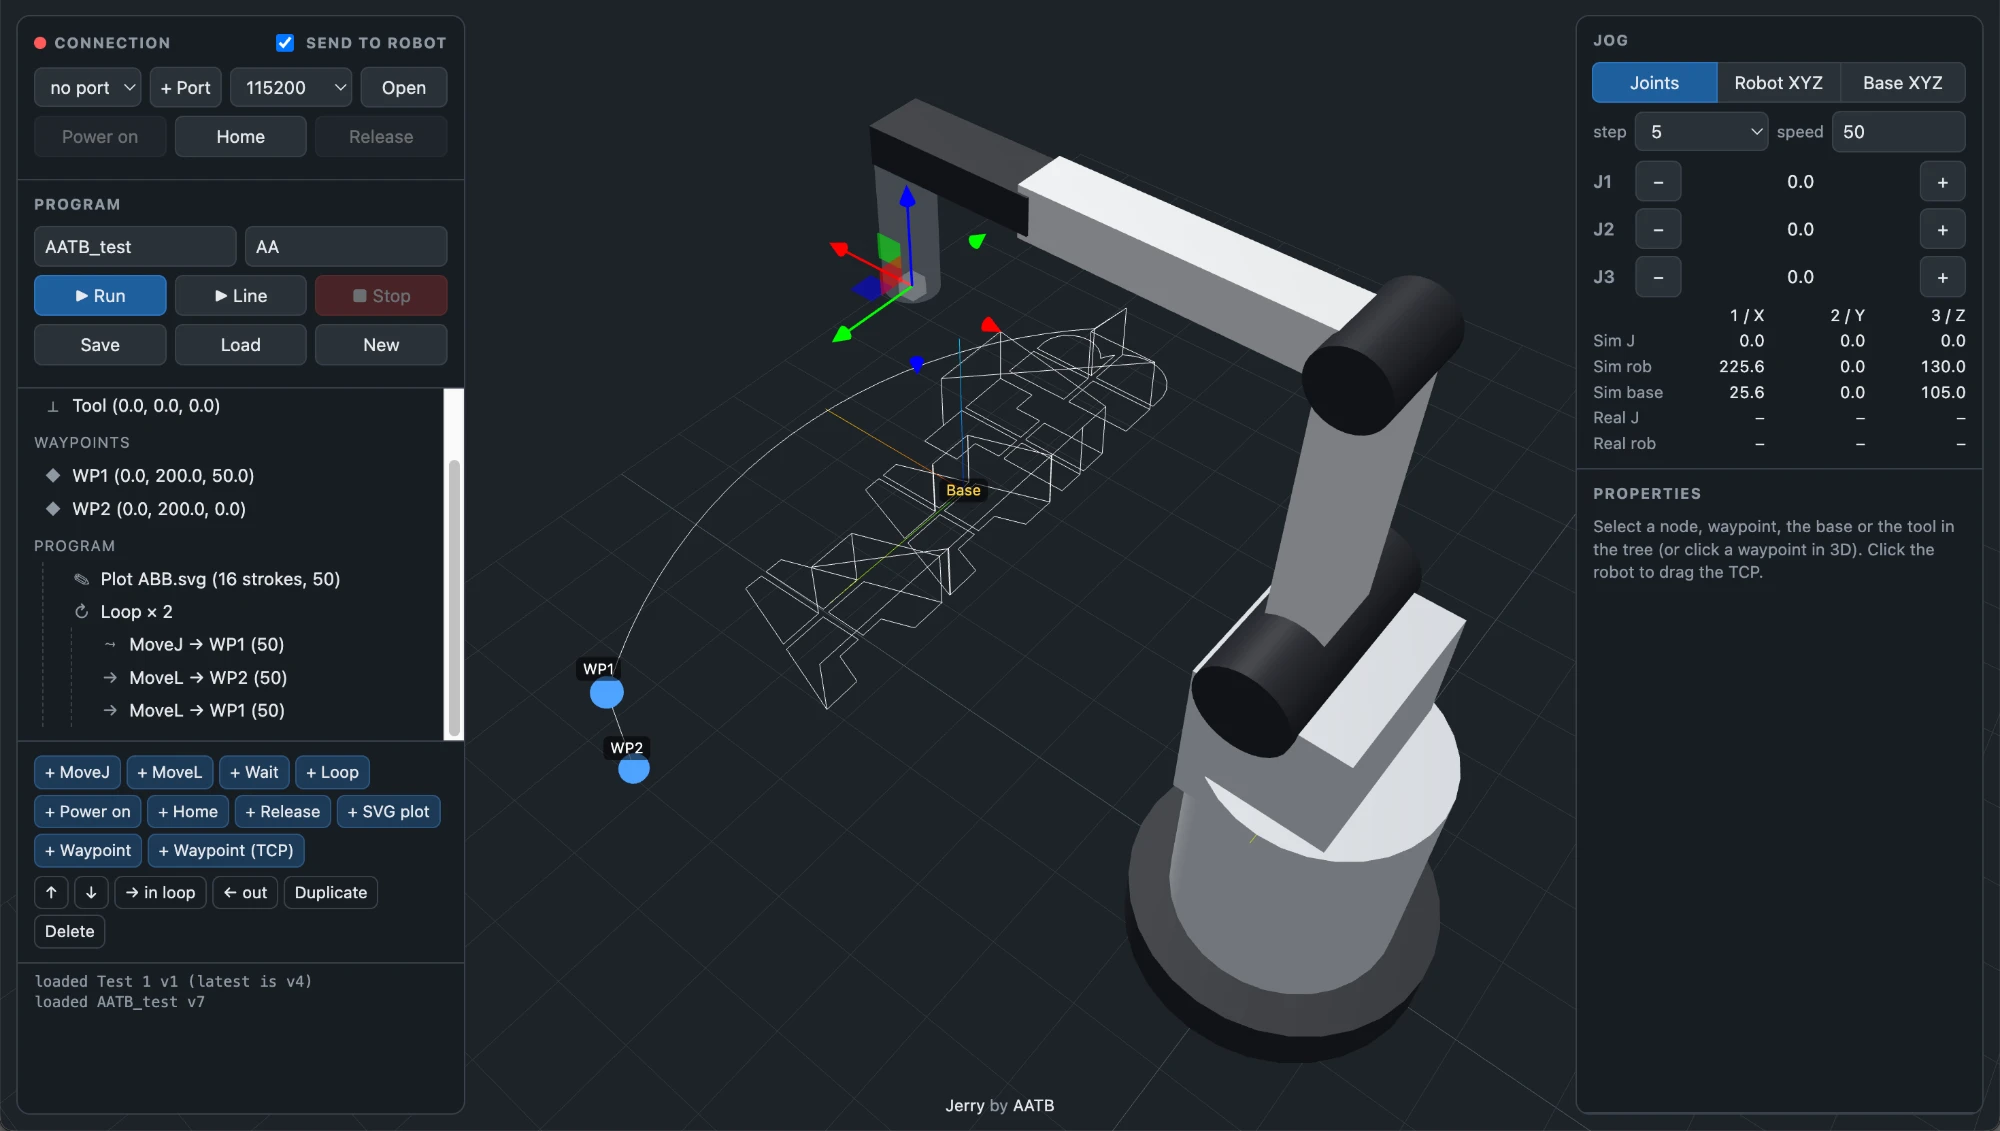
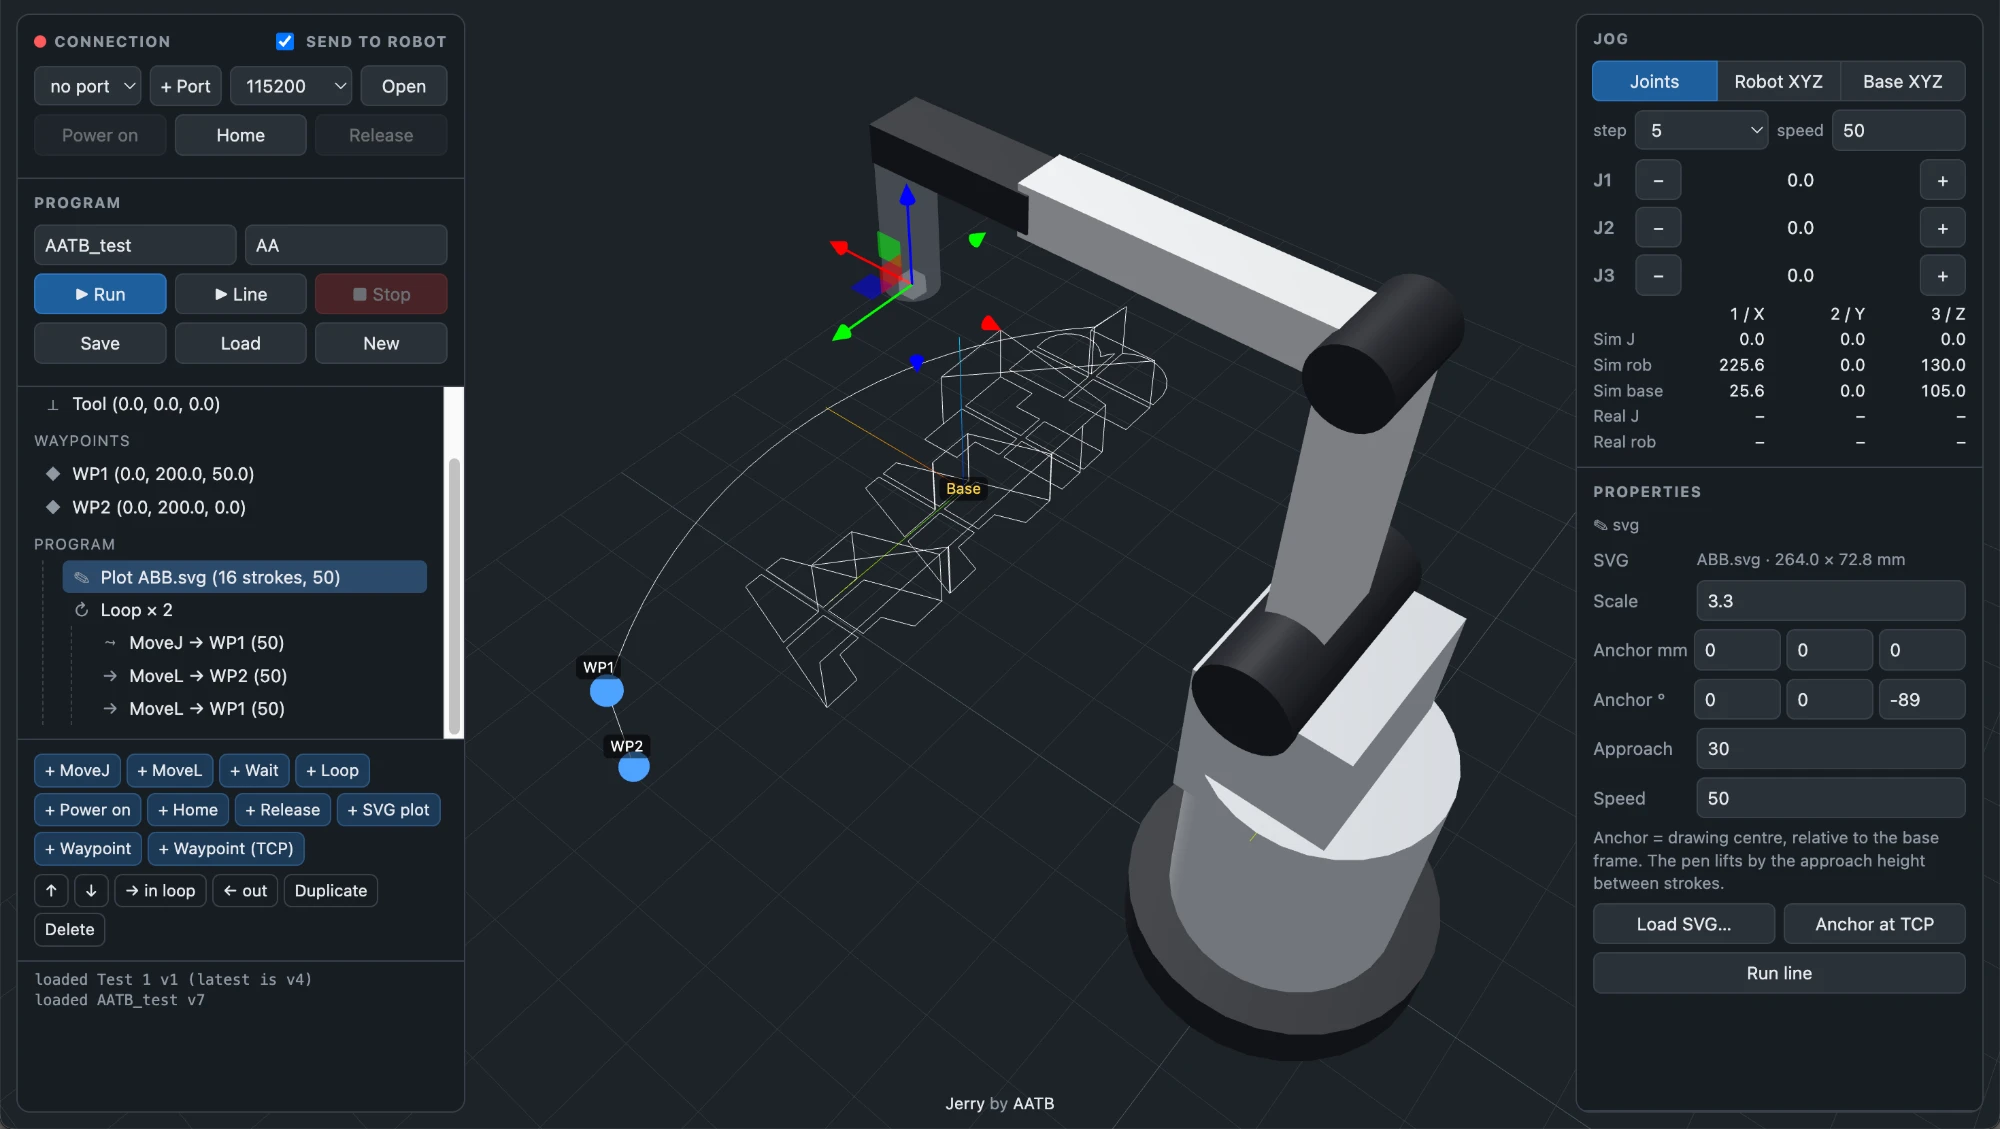
README: library screenshot, captions

diff --git a/README.md b/README.md
@@ -14,6 +14,10 @@ Jerry, a simple online/offline programming environment for the Elephant Robotics
 - Programs saved to a flat-file db, reloaded via a URL GUID, with versioning, to allow easy save/load from different machines (personal laptops for offline programming -> save -> on machine that is connected to real hardware load their own file -> run)
 
 ![Jerry](docs/screenshot.webp)
+*Left pane: hardware control, scene save/load/new, base/TCP offset, program tree and editor. Right pane: jogging, node properties.*
+
+![Shared library](docs/library.webp)
+*Saved scenes show up in a shared library to easily load from a different machine with actual hardware, allowing easy prototyping offline, save and load for online playback.*
 
 ## Run
 
